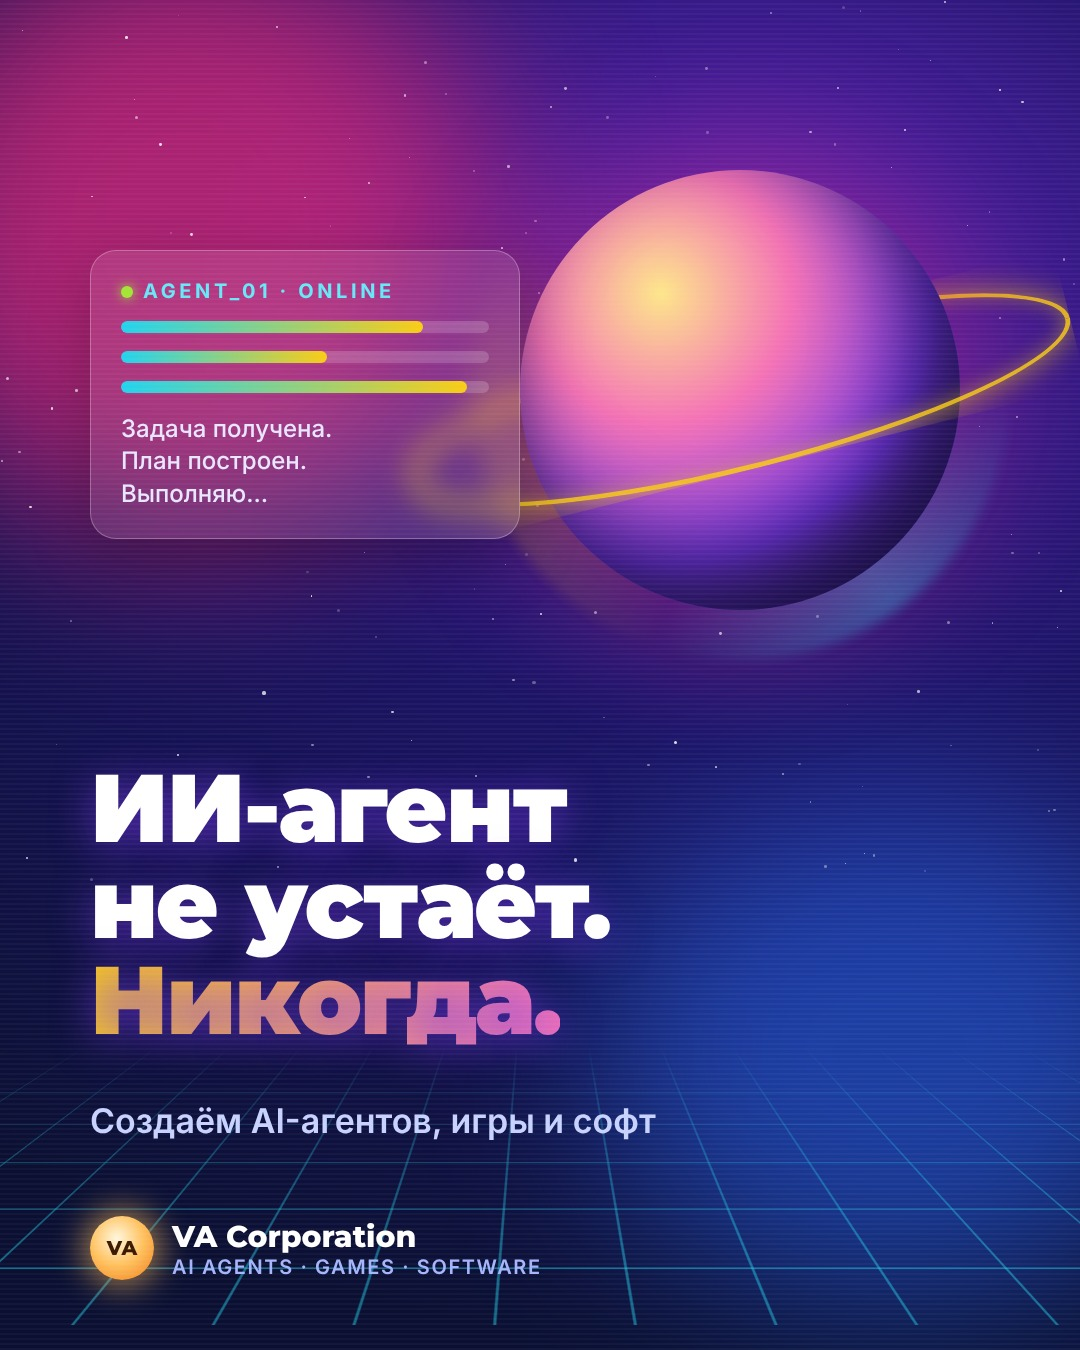
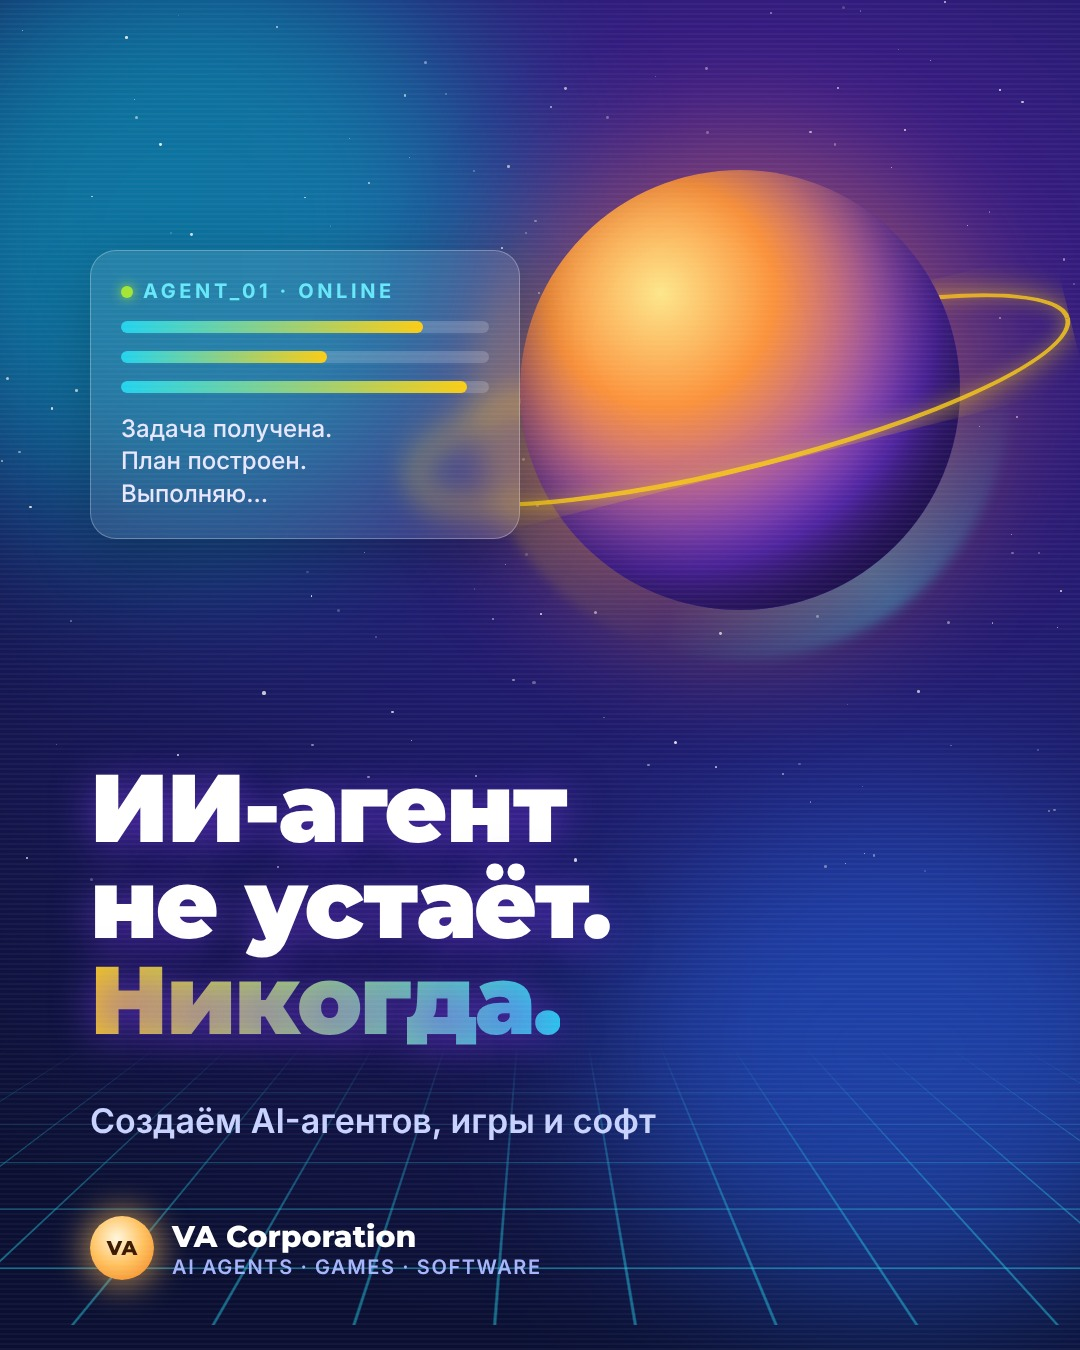
No pink in brand; techno music generator

diff --git a/templates/banner-nebula.html b/templates/banner-nebula.html
@@ -1,15 +1,15 @@
 <!doctype html><html lang="ru"><head><meta charset="utf-8"><style>
 *{margin:0;padding:0;box-sizing:border-box}
 body{width:1080px;height:1350px;overflow:hidden;font-family:'Montserrat',sans-serif}
-.st{position:relative;width:1080px;height:1350px;overflow:hidden;background:radial-gradient(120% 80% at 70% 20%,#5B21B6 0%,#1B1464 45%,#0B1033 100%)}
+.st{position:relative;width:1080px;height:1350px;overflow:hidden;background:radial-gradient(120% 80% at 70% 20%,#4C1D95 0%,#1E1B6B 45%,#0B1033 100%)}
 .blob{position:absolute;border-radius:50%;filter:blur(90px);opacity:.75}
 .star{position:absolute;border-radius:50%;background:#fff}
 .grid{position:absolute;left:-300px;bottom:-120px;width:1680px;height:700px;transform:perspective(900px) rotateX(68deg);
  background-image:linear-gradient(rgba(34,211,238,.45) 2px,transparent 2px),linear-gradient(90deg,rgba(34,211,238,.45) 2px,transparent 2px);background-size:90px 90px;
  -webkit-mask-image:linear-gradient(to top,#000 10%,transparent 85%)}
 .planet{position:absolute;left:520px;top:170px;width:440px;height:440px;border-radius:50%;
- background:radial-gradient(circle at 32% 28%,#FDE68A 0%,#F472B6 30%,#7C3AED 62%,#1E1B4B 100%);
- box-shadow:inset -40px -50px 90px rgba(10,5,40,.75),0 0 120px 30px rgba(219,39,119,.35)}
+ background:radial-gradient(circle at 32% 28%,#FDE68A 0%,#FB923C 26%,#7C3AED 64%,#1E1B4B 100%);
+ box-shadow:inset -40px -50px 90px rgba(10,5,40,.75),0 0 120px 30px rgba(251,146,60,.35)}
 .ring{position:absolute;left:400px;top:330px;width:680px;height:140px;border-radius:50%;border:5px solid rgba(250,204,21,.85);transform:rotate(-14deg);
  box-shadow:0 0 30px rgba(250,204,21,.6),inset 0 0 20px rgba(250,204,21,.4)}
 .ringback{clip-path:inset(0 0 50% 0)}
@@ -21,14 +21,14 @@ body{width:1080px;height:1350px;overflow:hidden;font-family:'Montserrat',sans-se
 .hud .row i{display:block;height:100%;border-radius:6px;background:linear-gradient(90deg,#22D3EE,#FACC15)}
 .hud .t{margin-top:20px;font-family:'Inter';font-size:24px;color:#E9E6FF;font-weight:500;line-height:1.35}
 .h1{position:absolute;left:90px;top:760px;width:900px;color:#fff;font-weight:900;font-size:96px;line-height:1.0;letter-spacing:-.02em;text-shadow:0 6px 40px rgba(124,58,237,.6)}
-.h1 em{font-style:normal;background:linear-gradient(90deg,#FACC15,#F472B6);-webkit-background-clip:text;color:transparent}
+.h1 em{font-style:normal;background:linear-gradient(90deg,#FACC15,#22D3EE);-webkit-background-clip:text;color:transparent}
 .sub{position:absolute;left:90px;top:1100px;color:#C7D2FE;font-family:'Inter';font-weight:600;font-size:34px}
 .lock{position:absolute;left:90px;bottom:70px;display:flex;align-items:center;gap:18px}
 .sun{width:64px;height:64px;border-radius:50%;background:radial-gradient(circle at 42% 35%,#FFF7DE 0%,#FFC15E 48%,#F07A1A 100%);box-shadow:0 0 30px 8px rgba(255,190,90,.55);display:flex;align-items:center;justify-content:center;font-weight:800;font-size:20px;color:#3A1A00}
 .lock b{color:#fff;font-size:30px;font-weight:800}.lock span{display:block;color:#A5B4FC;font-family:'Inter';font-size:20px;font-weight:600;letter-spacing:.08em}
 .scan{position:absolute;inset:0;background:repeating-linear-gradient(0deg,rgba(255,255,255,.035) 0 2px,transparent 2px 5px);pointer-events:none}
 </style></head><body><div class="st" id="s">
-<div class="blob" style="left:-120px;top:-80px;width:620px;height:620px;background:#DB2777"></div>
+<div class="blob" style="left:-120px;top:-80px;width:620px;height:620px;background:#0891B2"></div>
 <div class="blob" style="left:600px;top:800px;width:600px;height:500px;background:#2563EB;opacity:.55"></div>
 <div class="grid"></div>
 <div class="halo"></div>

diff --git a/tools/techno.py b/tools/techno.py
@@ -1,0 +1,155 @@
+"""Original techno music bed for VA Corporation reels (royalty-free, generated in code).
+
+Usage:
+  python3 tools/techno.py OUT.wav --dur 12 --bpm 128 --cuts 2.0,4.1,6.3 --reveal 9.5 --seed 7
+  --cuts    scene-change times in seconds (riser before, impact on each)
+  --reveal  time of the brand/logo reveal (big impact + drop)
+"""
+import argparse, wave
+import numpy as np
+
+SR = 44100
+
+
+def env_exp(n, k):
+    return np.exp(-np.arange(n) / SR * k)
+
+
+def kick(n=int(0.5 * SR)):
+    t = np.arange(n) / SR
+    f = 45 + 140 * np.exp(-t * 38)
+    s = np.sin(2 * np.pi * np.cumsum(f) / SR) * np.exp(-t * 6.5)
+    click = np.random.RandomState(1).randn(n) * np.exp(-t * 400) * 0.15
+    return np.tanh((s + click) * 1.6) * 0.95
+
+
+def hat(open_=False, seed=2):
+    n = int((0.22 if open_ else 0.05) * SR)
+    noise = np.random.RandomState(seed).randn(n)
+    noise = np.diff(np.concatenate([[0], noise]))  # crude high-pass
+    return noise * env_exp(n, 14 if open_ else 90) * (0.20 if open_ else 0.11)
+
+
+def clap():
+    n = int(0.25 * SR)
+    noise = np.random.RandomState(3).randn(n)
+    e = np.zeros(n)
+    for d in (0, 0.012, 0.024):
+        i = int(d * SR)
+        e[i:] += np.exp(-np.arange(n - i) / SR * 28)
+    return noise * e * 0.18
+
+
+def saw(freq, n, phase=0.0):
+    t = np.arange(n) / SR
+    return 2 * ((t * freq + phase) % 1.0) - 1
+
+
+def lowpass(x, cutoff, res=0.0):
+    """One-pole-ish resonant lowpass with per-sample cutoff (array or float)."""
+    y = np.zeros_like(x)
+    cut = np.broadcast_to(cutoff, x.shape)
+    a_prev = b_prev = 0.0
+    for i in range(len(x)):
+        g = min(0.99, 2 * np.pi * cut[i] / SR)
+        fb = res * (a_prev - b_prev)
+        a_prev = a_prev + g * (x[i] - a_prev + fb)
+        b_prev = b_prev + g * (a_prev - b_prev)
+        y[i] = b_prev
+    return y
+
+
+def build(dur, bpm, cuts, reveal, seed):
+    rng = np.random.RandomState(seed)
+    n_total = int(dur * SR)
+    L = np.zeros(n_total)
+    R = np.zeros(n_total)
+    beat = 60.0 / bpm
+    step = beat / 4
+
+    def add(sig, t0, pan=0.0, gain=1.0):
+        i = int(t0 * SR)
+        if i >= n_total:
+            return
+        m = min(len(sig), n_total - i)
+        L[i:i + m] += sig[:m] * gain * (1 - max(0, pan))
+        R[i:i + m] += sig[:m] * gain * (1 + min(0, pan))
+
+    K, HC, HO, CL = kick(), hat(False), hat(True), clap()
+    root = [55.0, 55.0, 65.41, 49.0][rng.randint(0, 4)]
+    pattern = [0, 0, 12, 0, 7, 0, 12, 10, 0, 0, 12, 0, 3, 0, 15, 12]
+    acid_notes = [0, 12, 7, 10, 0, 15, 12, 3]
+
+    steps = int(dur / step) + 1
+    for s in range(steps):
+        t0 = s * step
+        if t0 > dur - 0.4:
+            break
+        in_intro = t0 < 0.9  # short filtered intro before the first drop
+        if s % 4 == 0:
+            add(K, t0, gain=0.6 if in_intro else 1.0)
+        if s % 4 == 2:
+            add(HO, t0, pan=0.25)
+        add(HC, t0, pan=-0.3, gain=0.8 if s % 2 else 0.5)
+        if s % 8 == 4 and not in_intro:
+            add(CL, t0, pan=0.1)
+        # rolling bass (offbeat 16ths)
+        if s % 4 != 0 and not in_intro:
+            f = root * 2 ** (pattern[s % 16] / 12)
+            n = int(step * SR * 0.9)
+            b = lowpass(saw(f, n), 380, 0.2) * env_exp(n, 9) * 0.55
+            add(b, t0)
+    # acid lead with filter sweep, every 8th note
+    n_lead = int(step * 2 * SR * 0.85)
+    for s in range(0, steps, 2):
+        t0 = s * step
+        if t0 < 1.0 or t0 > dur - 0.6:
+            continue
+        f = root * 4 * 2 ** (acid_notes[(s // 2) % 8] / 12)
+        sweep = 500 + 2600 * (0.5 + 0.5 * np.sin(2 * np.pi * t0 / (beat * 8)))
+        sig = lowpass(saw(f, n_lead), sweep, 0.85) * env_exp(n_lead, 7) * 0.22
+        add(sig, t0, pan=0.35 if (s // 2) % 2 else -0.35)
+    # risers + impacts on scene cuts and reveal
+    for c in list(cuts) + [reveal]:
+        n = int(0.6 * SR)
+        t = np.arange(n) / SR
+        rise = rng.randn(n) * (t / 0.6) ** 2.2 * 0.22
+        add(rise, max(0, c - 0.6), pan=-0.2)
+        add(rise[::-1] * 0, c)  # placeholder keep alignment
+        boom_n = int(0.9 * SR)
+        bt = np.arange(boom_n) / SR
+        boom = np.sin(2 * np.pi * (40 + 60 * np.exp(-bt * 10)) * bt) * np.exp(-bt * 3.5)
+        add(boom, c, gain=0.9 if c == reveal else 0.45)
+        add(CL, c, gain=0.8)
+    # mix bus: soft clip, fade, normalize
+    mix = np.stack([L, R], axis=1)
+    mix = np.tanh(mix * 1.15)
+    fl = int(0.6 * SR)
+    mix[-fl:] *= np.linspace(1, 0, fl)[:, None]
+    fi = int(0.05 * SR)
+    mix[:fi] *= np.linspace(0, 1, fi)[:, None]
+    mix /= max(1e-9, np.max(np.abs(mix)))
+    return mix * 0.89
+
+
+def main():
+    ap = argparse.ArgumentParser()
+    ap.add_argument("out")
+    ap.add_argument("--dur", type=float, default=12)
+    ap.add_argument("--bpm", type=float, default=128)
+    ap.add_argument("--cuts", default="")
+    ap.add_argument("--reveal", type=float, default=None)
+    ap.add_argument("--seed", type=int, default=7)
+    a = ap.parse_args()
+    cuts = [float(x) for x in a.cuts.split(",") if x.strip()]
+    reveal = a.reveal if a.reveal is not None else a.dur - 3
+    mix = build(a.dur, a.bpm, cuts, reveal, a.seed)
+    with wave.open(a.out, "wb") as w:
+        w.setnchannels(2)
+        w.setsampwidth(2)
+        w.setframerate(SR)
+        w.writeframes((mix * 32767).astype(np.int16).tobytes())
+
+
+if __name__ == "__main__":
+    main()

diff --git a/BRAND.md b/BRAND.md
@@ -15,12 +15,12 @@ VA Corporation builds **AI agents, games and IT products**. Tone: visionary, cin
 | World | Background | Accents | Text |
 |---|---|---|---|
 | Solar Dawn | #8CCBFF → #CFE8FF → #FFE4C2 | #FFC15E, #F07A1A, #2F5BEA | #0F1B3D |
-| Nebula | #1B1464 → #5B21B6 → #DB2777 | #22D3EE, #FACC15 | #FFFFFF |
-| Aurora | #052E2B → #0E8F7C → #67E8F9 | #A3E635, #F0ABFC | #FFFFFF |
-| Plasma | #FF7A2F → #FF3D7F → #6C4DFF | #FFFFFF, #FFE066 | #FFFFFF |
+| Nebula | #0B1033 → #1E1B6B → #5B21B6 | #22D3EE, #FACC15 | #FFFFFF |
+| Aurora | #052E2B → #0E8F7C → #67E8F9 | #A3E635, #FACC15 | #FFFFFF |
+| Plasma | #FF7A2F → #F59E0B → #6C4DFF | #FFFFFF, #FFE066 | #FFFFFF |
 | Ice Orbit | #E0F2FE → #BAE6FD → #F5F3FF | #6366F1, #06B6D4 | #0F172A |
 | Deep Indigo | #0B1033 → #1E2A78 | #FFC15E, #7DD3FC | #F2F5FA |
-Avoid flat pure black backgrounds. Text contrast ≥ 4.5:1 always.
+**NO PINK / MAGENTA / ROSE anywhere** (no #DB2777, #F472B6, #EC4899, #FF3D7F-type hues, no pink gradients or glows). Avoid flat pure black backgrounds. Text contrast ≥ 4.5:1 always.
 
 ## Typography (installed locally)
 - Display: Montserrat 800–900, tight tracking (-0.02em) for hooks; wide tracking for wordmarks.
@@ -44,7 +44,7 @@ Avoid flat pure black backgrounds. Text contrast ≥ 4.5:1 always.
 ## Reels
 - 1080×1920, 30 fps, 10–15 s, new scene every 1.5–2.5 s, hook in the first second, brand reveal at the end with CTA "Follow / Подпишись / Folgt uns".
 - Subtitles: main language line big, smaller English line under it (unless the reel is English).
-- Original music generated in code (numpy), hits synced to scene cuts, fade-out.
+- Music: original **techno** generated in code (numpy), 125–132 BPM, four-on-the-floor kick with long sub tail, offbeat open hi-hats + 16th closed hats, clap on 2 and 4, rolling 16th-note bassline, an acid-style resonant filtered saw/square lead (303 feel) with filter sweep, white-noise risers before scene cuts and the brand reveal, impact hit on the logo, short fade-out. Normalize to about -1 dBFS, stereo if possible.
 - Cover: 1080×1920 JPEG, hook text centered so the 3:4 profile-grid crop keeps it.
 
 ## Honesty
